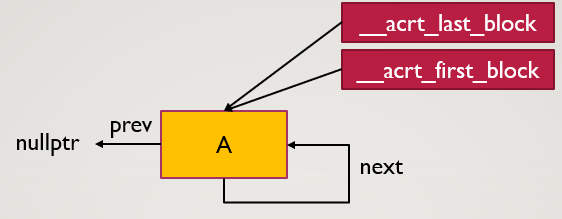
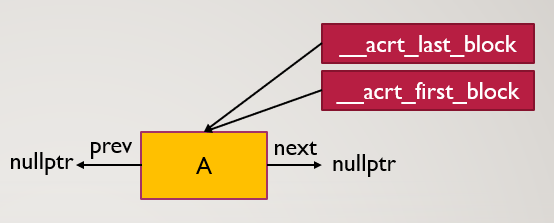
更新runtime运行时库文章的内容

Changed region(s): [[0.0, 0.0, 1.0, 0.9315], [0.3375, 0.6301, 0.4296, 0.7671]]

diff --git a/source/_posts/runtime运行时库在MT与MD之间的差别.md b/source/_posts/runtime运行时库在MT与MD之间的差别.md
@@ -14,13 +14,11 @@ tags:
 
 ### VS Runtime(运行时)库的介绍
 
-在VS编译程序时，我们指定了入口函数。但这不是真正的入口函数，MSVC会提供真正的入口函数，对应关系举例如下：
+运行时库提供了很多变量（包括常量），还有很多类函数，比如字符串处理、输入与输出等。它们可以被静态编译到可执行文件（EXE或DLL），也可以被动态加载。
 
-- main -> mainCRTStartup
-- winMain -> _WinMainCRTStartup
-- DllMain -> _DllMainCRTStartup
+详细的说明可参考[C runtime library (CRT) reference - Microsoft Docs](https://docs.microsoft.com/en-us/cpp/c-runtime-library/c-run-time-library-reference)。关于用到的库可参考[C runtime (CRT) and C++ Standard Library (STL) `.lib` files](https://docs.microsoft.com/en-us/cpp/c-runtime-library/crt-library-features?view=msvc-160)。
 
-我们可以暂且将mainCRTStartup到main之间的代码理解为VS编译时插入的运行时库。
+本文重点阐述运行时库在MT和MD之间的区别。
 
 ### 运行时库的区别
 
@@ -111,7 +109,7 @@ __acrt_first_block == header
 
    运行时库管理堆时，有三个比较重要的变量
 
-    - __acrt_heap，都使用进程默认堆
+    - __acrt_heap，都指向进程默认堆
     - __acrt_first_block指向最新被分配的堆块（初始值为nullptr）
     - __acrt_last_block指向最久被分配的堆块（初始值为nullptr）
 
@@ -140,4 +138,32 @@ __acrt_first_block == header
    观察上一节的代码，因为DLL返回的str字符串在EXE的代码空间里（领空）被释放，所以EXE的运行时库会去检查字符串的堆块是否与EXE运行时库的\_\_acrt_first_block相等。但由于这个堆块是DLL的运行时库分配的，所以该堆块与DLL运行时库的\_\_acrt_first_block相等，与EXE运行时库的\_\_acrt_first_block不相等。
    
    如果出现不相等的情况，在Debug模式会弹出对话框，这就是上一节出现错误的原因。由于Release版本去掉了断言，所以之后可能会产生更严重的后果，因为两个运行时库的堆管理出现了交叉。
+
+### 解决方法
+
+根据前两节的描述，问题在于一个运行时库分配堆块，另一个运行时库释放堆块。那么解决的方法就是在传递参数或返回参数时，通过指针或引用的方式，直接传递，防止中间的类复制（调用复制构造函数）。
+
+### 一个应用存在多个运行时库存在的问题
+
+在MSDN发现了很值得一读的一节，这里直接献上原汁原味的原文：
+
+{% blockquote MSDN https://docs.microsoft.com/en-us/cpp/c-runtime-library/crt-library-features?view=msvc-160 C runtime (CRT) and C++ Standard Library %}
+
+Every executable image (EXE or DLL) can have its own statically linked CRT, or can dynamically link to a CRT. The version of the CRT statically included in or dynamically loaded by a particular image depends on the version of the tools and libraries it was built with. A single process may load multiple EXE and DLL images, each with its own CRT. Each of those CRTs may use a different allocator, may have different internal structure layouts, and may use different storage arrangements. This means allocated memory, CRT resources, or classes passed across a DLL boundary can cause problems in memory management, internal static usage, or layout interpretation. For example, if a class is allocated in one DLL but passed to and deleted by another, which CRT deallocator is used? The errors caused can range from the subtle to the immediately fatal, and therefore direct transfer of such resources is strongly discouraged.
+
+
+
+You can avoid many of these issues by using Application Binary Interface (ABI) technologies instead, as they are designed to be stable and versionable. Design your DLL export interfaces to pass information by value, or to work on memory that is passed in by the caller rather than allocated locally and returned to the caller. Use marshaling techniques to copy structured data between executable images. Encapsulate resources locally and only allow manipulation through handles or functions you expose to clients.
+
+
+
+It's also possible to avoid some of these issues if all of the images in your process use the same dynamically loaded version of the CRT. To ensure that all components use the same DLL version of the CRT, build them by using the **`/MD`** option, and use the same compiler toolset and property settings.
+
+Be careful if your program passes certain CRT resources across DLL boundaries. Resources such as file handles, locales, and environment variables can cause problems, even when using the same version of the CRT. For more information on the issues involved and how to resolve them, see [Potential Errors Passing CRT Objects Across DLL Boundaries](https://docs.microsoft.com/en-us/cpp/c-runtime-library/potential-errors-passing-crt-objects-across-dll-boundaries?view=msvc-160).
+
+{% endblockquote %}
+
+### 参考
+
+- [C runtime (CRT) and C++ Standard Library (STL) .lib files](https://docs.microsoft.com/en-us/cpp/c-runtime-library/crt-library-features?view=msvc-160)
 
